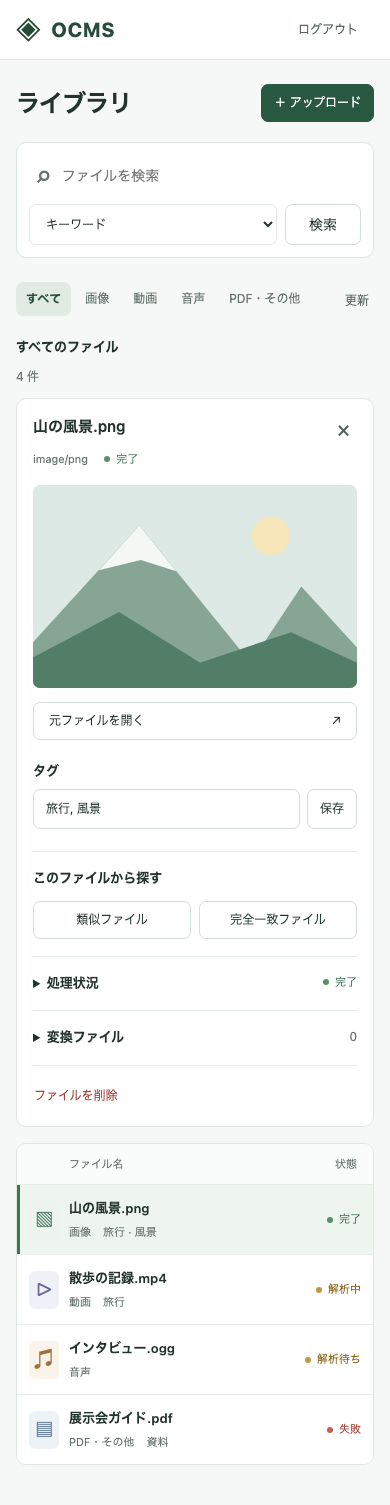
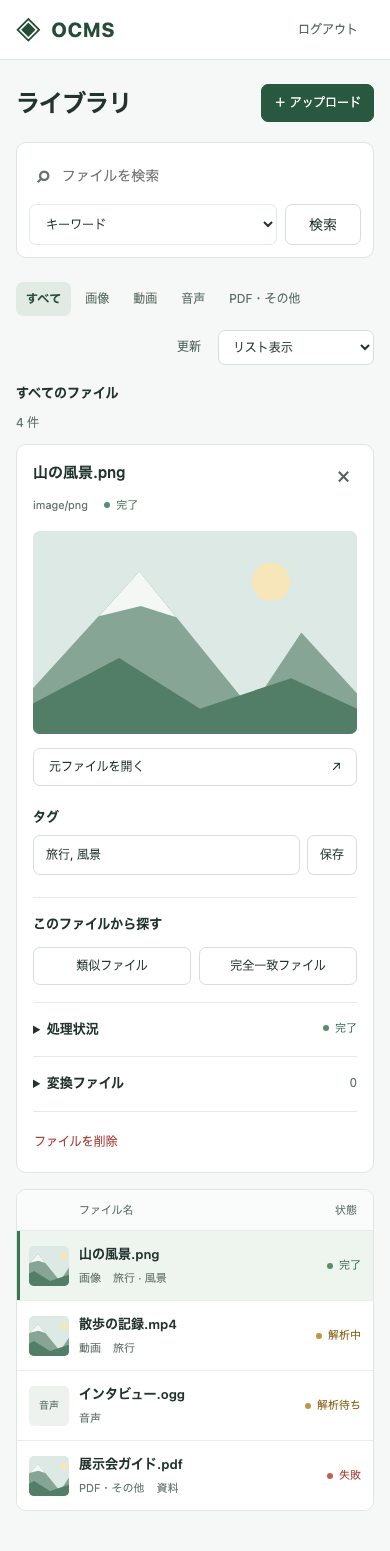
feat: add thumbnail list and grid library views

diff --git a/web/tests/library.spec.ts b/web/tests/library.spec.ts
@@ -180,3 +180,104 @@ test('narrow layout moves focus into details and returns it on close', async ({ 
   await page.getByRole('button', { name: '詳細を閉じる' }).click();
   await expect(file).toBeFocused();
 });
+
+test('view menu follows refresh and list rows use authenticated thumbnails', async ({ page }) => {
+  await expect(page.getByLabel('表示方法')).toHaveValue('list');
+  const refresh = (await page.getByRole('button', { name: '更新', exact: true }).boundingBox())!;
+  const menu = (await page.getByLabel('表示方法').boundingBox())!;
+  expect(menu.x).toBeGreaterThan(refresh.x + refresh.width);
+  await expect(page.getByLabel('表示方法').locator('option')).toHaveText(['リスト表示', 'グリッド表示', '詳細グリッド表示']);
+  const image = page.getByRole('button', { name: '山の風景.png', exact: true });
+  await expect(image.locator('.thumbnail img')).toHaveAttribute('src', '/api/v1/assets/image/preview');
+  await expect(image.locator('.thumbnail img')).toHaveJSProperty('naturalWidth', 640);
+  await expect(page.getByRole('button', { name: '散歩の記録.mp4', exact: true }).locator('.thumbnail img')).toHaveAttribute('src', '/api/v1/assets/video/preview');
+  await expect(page.getByRole('button', { name: '展示会ガイド.pdf', exact: true }).locator('.thumbnail img')).toHaveAttribute('src', '/api/v1/assets/pdf/preview');
+  await expect(page.getByRole('button', { name: 'インタビュー.ogg', exact: true }).locator('.thumbnail-placeholder')).toHaveText('音声');
+  await expect(page.locator('.file-icon')).toHaveCount(0);
+});
+
+test('square grids show only thumbnails or a contained thumbnail with title', async ({ page }) => {
+  // Portrait and landscape sources catch accidental image stretching.
+  await page.route('**/api/v1/assets/pdf/preview', route => route.fulfill({ contentType: 'image/svg+xml', body: '<svg xmlns="http://www.w3.org/2000/svg" width="300" height="600"><rect width="300" height="600" fill="#dbe3ed"/><rect x="30" y="50" width="240" height="10" fill="#6f849a"/></svg>' }));
+  await page.reload();
+  for (const view of ['grid', 'detailed-grid']) {
+    await page.setViewportSize({ width: 1440, height: 1000 });
+    await page.getByLabel('表示方法').selectOption(view);
+    const image = page.getByRole('button', { name: '山の風景.png', exact: true });
+    expect(await image.locator('.file-info').evaluate(el => el.classList.contains('visually-hidden'))).toBe(view === 'grid');
+    await expect(page.locator('.file .status, .file .file-meta, .list-header')).toHaveCount(0);
+    await expect(image.locator('.thumbnail img')).toHaveCSS('object-fit', view === 'grid' ? 'cover' : 'contain');
+    for (const width of [1440, 1024, 800, 390, 320]) {
+      await page.setViewportSize({ width, height: 1000 });
+      expect(await page.evaluate(() => document.documentElement.scrollWidth <= innerWidth)).toBe(true);
+      for (const card of await page.locator('.file').all()) {
+        const box = (await card.boundingBox())!;
+        expect(Math.abs(box.width - box.height)).toBeLessThan(1);
+      }
+    }
+    await page.setViewportSize({ width: 1440, height: 1000 });
+    await expect(page.getByRole('button', { name: '展示会ガイド.pdf', exact: true }).locator('.thumbnail img')).toHaveJSProperty('naturalHeight', 600);
+    if (process.env.UI_SCREENSHOTS) {
+      await page.screenshot({ path: `../docs/library-${view}.png`, fullPage: true });
+      await page.setViewportSize({ width: 390, height: 844 });
+      await page.screenshot({ path: `../docs/library-${view}-mobile.png`, fullPage: true });
+    }
+  }
+});
+
+test('switching view preserves selection, filtering and comparison context', async ({ page }) => {
+  await page.getByRole('button', { name: '画像', exact: true }).click();
+  await page.getByRole('button', { name: '山の風景.png', exact: true }).click();
+  for (const view of ['grid', 'detailed-grid', 'list']) {
+    await page.getByLabel('表示方法').selectOption(view);
+    await expect(page.locator('.file')).toHaveCount(1);
+    await expect(page.getByRole('button', { name: '山の風景.png', exact: true })).toHaveAttribute('aria-pressed', 'true');
+    await expect(page.getByRole('region', { name: 'ファイル詳細' })).toBeVisible();
+  }
+  await page.getByRole('button', { name: '類似ファイル', exact: true }).click();
+  await page.getByLabel('表示方法').selectOption('grid');
+  await page.getByRole('button', { name: '更新', exact: true }).click();
+  await expect(page.getByRole('heading', { name: '類似ファイル：山の風景.png' })).toBeVisible();
+  await page.getByRole('button', { name: '検索を解除' }).click();
+  await expect(page.getByLabel('表示方法')).toHaveValue('grid');
+  await expect(page.locator('.file')).toHaveCount(4);
+  await page.getByRole('button', { name: '展示会ガイド.pdf', exact: true }).click();
+  await expect(page.getByRole('region', { name: 'ファイル詳細' }).getByRole('heading', { level: 2 })).toHaveText('展示会ガイド.pdf');
+  for (const view of ['grid', 'detailed-grid']) {
+    await page.getByLabel('表示方法').selectOption(view);
+    for (const width of [1440, 1024, 800, 390, 320]) {
+      await page.setViewportSize({ width, height: 844 });
+      expect(await page.evaluate(() => document.documentElement.scrollWidth <= innerWidth)).toBe(true);
+      const box = (await page.locator('.file').first().boundingBox())!;
+      expect(Math.abs(box.width - box.height)).toBeLessThan(1);
+    }
+  }
+});
+
+test('missing thumbnails fall back and retry when processing status changes', async ({ page }) => {
+  let ready = false;
+  let previews = 0;
+  await page.route('**/api/v1/assets', route => route.fulfill({ json: { assets: [{ ...fixtures[0], status: ready ? 'ready' : 'processing' }] } }));
+  await page.route('**/api/v1/assets/image/preview', route => {
+    previews++;
+    return route.fulfill(ready ? { contentType: 'image/svg+xml', body: preview } : { status: 404 });
+  });
+  await page.reload();
+  await expect(page.locator('.thumbnail-placeholder')).toHaveText('準備中');
+  await page.getByLabel('表示方法').selectOption('grid');
+  await expect(page.locator('.thumbnail-placeholder')).toHaveText('準備中');
+  ready = true;
+  await page.getByRole('button', { name: '更新', exact: true }).click();
+  await expect(page.locator('.thumbnail img')).toHaveJSProperty('naturalWidth', 640);
+  expect(previews).toBe(2);
+});
+
+test('PDF search thumbnails use the matched page in every view', async ({ page }) => {
+  await page.getByLabel('検索クエリ').fill('pdf');
+  await page.getByRole('button', { name: '検索', exact: true }).click();
+  await expect(page.locator('.file')).toHaveCount(1);
+  for (const view of ['list', 'grid', 'detailed-grid']) {
+    await page.getByLabel('表示方法').selectOption(view);
+    await expect(page.locator('.file .thumbnail img')).toHaveAttribute('src', '/api/v1/assets/pdf/preview?page=2');
+  }
+});

diff --git a/web/src/main.tsx b/web/src/main.tsx
@@ -11,6 +11,7 @@ type Job = { job_id: string; job_type: string; status: string; attempts: number;
 type Me = { principal_id: string; csrf_token: string };
 type Mode = 'keyword' | 'semantic' | 'hybrid' | 'perceptual' | 'exact_duplicate';
 type SearchContext = { mode: Mode; query: string; source?: Asset };
+type View = 'list' | 'grid' | 'detailed-grid';
 type Kind = 'all' | 'image' | 'video' | 'audio' | 'document';
 const statuses: Record<string, string> = {
   pending: 'アップロード待ち', uploading: 'アップロード中', stored: '解析待ち', processing: '解析中', ready: '完了', failed: '失敗',
@@ -38,6 +39,16 @@ function renditionName(profile: string) {
   const page = profile.match(/^pdf\.page-(\d+)-v1$/);
   return page ? `${page[1]} ページ · PNG` : profile;
 }
+function Thumbnail({ asset }: { asset: Asset }) {
+  const [failed, setFailed] = useState(false);
+  const kind = kindOf(asset);
+  const hasPreview = kind === 'image' || kind === 'video' || asset.mime_type === 'application/pdf';
+  const url = `/api/v1/assets/${asset.asset_id}/preview${asset.page_number !== undefined ? `?page=${asset.page_number}` : ''}`;
+  return <span className="thumbnail" aria-hidden="true">
+    {hasPreview && !failed ? <img src={url} alt="" loading="lazy" onError={() => setFailed(true)} />
+      : <span className="thumbnail-placeholder">{kind === 'audio' ? '音声' : ['pending', 'stored', 'processing'].includes(asset.status) ? '準備中' : 'プレビューなし'}</span>}
+  </span>;
+}
 function Status({ value }: { value: string }) {
   return <span className={`status status-${value}`}><span aria-hidden="true" />{statuses[value] ?? value}</span>;
 }
@@ -54,6 +65,7 @@ function App() {
   const [mode, setMode] = useState<Mode>('keyword');
   const [context, setContext] = useState<SearchContext>(allFiles);
   const [kind, setKind] = useState<Kind>('all');
+  const [view, setView] = useState<View>('list');
   const [error, setError] = useState('');
   const [notice, setNotice] = useState('');
   const [searching, setSearching] = useState(false);
@@ -193,7 +205,12 @@ function App() {
           <div className="filters" role="group" aria-label="ファイルの種類">{kinds.map(item =>
             <button key={item.id} aria-pressed={kind === item.id} onClick={() => setKind(item.id)}>{item.label}</button>
           )}</div>
-          <button className="quiet" disabled={searching} onClick={() => run(() => refresh())}>更新</button>
+          <div className="view-controls">
+            <button className="quiet" disabled={searching} onClick={() => run(() => refresh())}>更新</button>
+            <select aria-label="表示方法" value={view} onChange={e => setView(e.target.value as View)}>
+              <option value="list">リスト表示</option><option value="grid">グリッド表示</option><option value="detailed-grid">詳細グリッド表示</option>
+            </select>
+          </div>
         </div>
         <div className="result-heading" aria-live="polite">
           <h2>{context.source ? `${context.mode === 'perceptual' ? '類似ファイル' : '完全一致ファイル'}：${context.source.filename}` : context.query ? `「${context.query}」の検索結果` : kind === 'all' ? 'すべてのファイル' : kinds.find(k => k.id === kind)?.label}</h2>
@@ -201,20 +218,25 @@ function App() {
           {isResult && <button className="text-button" onClick={reset}>検索を解除</button>}
         </div>
         <div className={`library ${selected ? 'has-selection' : ''}`}>
-          <section ref={fileList} className="files" aria-label="ファイル一覧" aria-busy={searching}>
+          <section ref={fileList} className={`files files-${view}`} aria-label="ファイル一覧" aria-busy={searching}>
             {visibleAssets.length === 0 ? <div className="empty">
               <span className="empty-icon" aria-hidden="true">▤</span>
               <h3>{searching ? '読み込み中…' : isResult ? '検索結果がありません' : kind !== 'all' ? 'この種類のファイルはありません' : 'ファイルはまだありません'}</h3>
               {!searching && (isResult || kind !== 'all' ? <button onClick={reset}>すべてのファイル</button> : <button onClick={() => uploadInput.current?.click()} disabled={progress !== null}>ファイルをアップロード</button>)}
             </div> : <>
-              <div className="list-header" aria-hidden="true"><span>ファイル名</span><span>状態</span></div>
-              {visibleAssets.map(a => <button className={`file ${selected?.asset_id === a.asset_id ? 'active' : ''}`} aria-pressed={selected?.asset_id === a.asset_id} key={a.asset_id} disabled={searching} onClick={() => { setError(''); setSelected(a); }}>
-                <span className={`file-icon kind-${kindOf(a)}`} aria-hidden="true">{kindOf(a) === 'image' ? '▧' : kindOf(a) === 'video' ? '▷' : kindOf(a) === 'audio' ? '♫' : '▤'}</span>
-                <span className="file-info"><b>{a.filename}</b><span className="file-meta">{kinds.find(k => k.id === kindOf(a))?.label}{a.tags.length > 0 && <span className="file-tags">{a.tags.join(' · ')}</span>}</span>
-                  {a.snippet && <span className="snippet">{a.snippet}</span>}
-                  {locationOf(a) && <span className="match-location">{locationOf(a)}</span>}
-                </span><Status value={a.status} />
-              </button>)}
+              {view === 'list' && <div className="list-header" aria-hidden="true"><span>ファイル名</span><span>状態</span></div>}
+              <div className={`file-items view-${view}`}>
+                {visibleAssets.map(a => <button className={`file ${selected?.asset_id === a.asset_id ? 'active' : ''}`} aria-label={a.filename} title={a.filename} aria-pressed={selected?.asset_id === a.asset_id} key={a.asset_id} disabled={searching} onClick={() => { setError(''); setSelected(a); }}>
+                  <Thumbnail key={`${a.asset_id}:${a.status}:${a.page_number ?? 1}`} asset={a} />
+                  <span className={`file-info${view === 'grid' ? ' visually-hidden' : ''}`}><b>{a.filename}</b>
+                    {view === 'list' && <>
+                      <span className="file-meta">{kinds.find(k => k.id === kindOf(a))?.label}{a.tags.length > 0 && <span className="file-tags">{a.tags.join(' · ')}</span>}</span>
+                      {a.snippet && <span className="snippet">{a.snippet}</span>}
+                      {locationOf(a) && <span className="match-location">{locationOf(a)}</span>}
+                    </>}
+                  </span>{view === 'list' && <Status value={a.status} />}
+                </button>)}
+              </div>
             </>}
           </section>
           {selected && <section className="details" aria-label="ファイル詳細" key={selected.asset_id}>

diff --git a/web/src/style.css b/web/src/style.css
@@ -62,15 +62,27 @@ main { max-width: 1560px; margin: 0 auto; padding: 36px 40px 64px; }
 .library { display: grid; grid-template-columns: minmax(0, 1fr); gap: 24px; align-items: start; }
 .library.has-selection { grid-template-columns: minmax(0, 1fr) 360px; }
 .files { min-width: 0; border: 1px solid #dfe6e1; border-radius: 10px; background: white; overflow: hidden; }
-.list-header { display: flex; justify-content: space-between; padding: 12px 22px 12px 76px; border-bottom: 1px solid #e5ebe7; font-size: 11px; color: #65746c; background: #fafcfb; }
+.list-header { display: flex; justify-content: space-between; padding: 12px 22px 12px 84px; border-bottom: 1px solid #e5ebe7; font-size: 11px; color: #65746c; background: #fafcfb; }
 .file { display: flex; align-items: center; text-align: left; gap: 16px; width: 100%; padding: 20px; border: 0; border-bottom: 1px solid #e9eeeb; border-radius: 0; background: white; white-space: normal; }
 .file:last-child { border-bottom: 0; }
 .file.active { background: #eef5ef; box-shadow: inset 3px 0 #397653; }
 .file:focus-visible { outline-offset: -4px; }
-.file-icon { flex-shrink: 0; width: 38px; height: 44px; display: grid; place-items: center; border-radius: 6px; font-size: 24px; color: #4b7c66; background: #edf4ee; }
-.kind-video { color: #68699c; background: #f0f0f8; }
-.kind-audio { color: #a1703c; background: #faf3e9; }
-.kind-document { color: #5e7991; background: #edf2f7; }
+.thumbnail { flex-shrink: 0; display: flex; align-items: center; justify-content: center; width: 48px; height: 48px; border-radius: 5px; overflow: hidden; background: #edf2ef; }
+.thumbnail img { display: block; width: 100%; height: 100%; object-fit: cover; }
+.thumbnail-placeholder { padding: 6px; color: #65746c; font-size: 10px; line-height: 1.5; text-align: center; overflow-wrap: anywhere; }
+.view-controls { display: flex; align-items: center; gap: 8px; flex-shrink: 0; }
+.view-controls select { font-size: 12px; padding: 8px 28px 8px 10px; }
+.files-grid, .files-detailed-grid { border: 0; background: transparent; overflow: visible; }
+.view-grid, .view-detailed-grid { display: grid; grid-template-columns: repeat(auto-fill, minmax(min(160px, 100%), 1fr)); gap: 14px; }
+.view-grid .file, .view-detailed-grid .file { aspect-ratio: 1; min-width: 0; overflow: hidden; border: 1px solid #dfe6e1; border-radius: 8px; }
+.view-grid .file { display: block; padding: 0; position: relative; }
+.view-grid .thumbnail { width: 100%; height: 100%; border-radius: 0; }
+.view-grid .file.active, .view-detailed-grid .file.active { border-color: #397653; box-shadow: 0 0 0 2px #397653; }
+.view-detailed-grid .file { display: flex; flex-direction: column; align-items: stretch; padding: 10px; gap: 10px; }
+.view-detailed-grid .thumbnail { flex: 1; min-height: 0; width: 100%; height: auto; }
+.view-detailed-grid .thumbnail img { object-fit: contain; }
+.view-detailed-grid .file-info { flex: 0 0 39px; }
+.view-detailed-grid .file b { display: -webkit-box; -webkit-line-clamp: 2; -webkit-box-orient: vertical; overflow: hidden; font-size: 12px; line-height: 19px; }
 .file-info { flex: 1; min-width: 0; }
 .file b { display: block; font-size: 13px; font-weight: 600; overflow-wrap: anywhere; }
 .file-meta { display: flex; gap: 12px; margin-top: 5px; color: #65746c; font-size: 11px; }
@@ -147,15 +159,17 @@ progress { flex: 1; max-width: 300px; height: 6px; accent-color: #397653; }
   .search { flex-wrap: wrap; gap: 8px; }
   .search-field { flex-basis: 100%; }
   .search select { flex: 1; max-width: none; }
-  .library-toolbar { align-items: flex-start; gap: 6px; }
+  .library-toolbar { flex-wrap: wrap; gap: 12px; }
+  .view-controls { margin-left: auto; }
+  .view-grid, .view-detailed-grid { grid-template-columns: repeat(2, minmax(0, 1fr)); gap: 10px; }
   .filters { gap: 4px; }
   .filters button { padding: 7px 9px; font-size: 12px; }
-  .library-toolbar > button { padding-inline: 4px; font-size: 12px; }
+  .view-controls button { padding-inline: 8px; font-size: 12px; }
   .file { gap: 10px; padding: 14px 12px; }
-  .file-icon { width: 30px; height: 38px; font-size: 21px; }
+  .view-list .thumbnail { width: 40px; height: 40px; }
   .file > .status { max-width: 92px; white-space: normal; }
   .file > .status > span { flex-shrink: 0; }
-  .list-header { padding-left: 52px; padding-right: 16px; }
+  .list-header { padding-left: 62px; padding-right: 16px; }
   .result-heading h2 { width: 100%; font-size: 13px; }
   .details { padding: 16px; }
 }

diff --git a/README.md b/README.md
@@ -14,7 +14,7 @@ docker compose build
 docker compose up -d --wait
 ```
 
-[http://localhost:8080](http://localhost:8080) を開き、`alice` または `bob` でログインします。これはローカル開発専用の認証です。アップロード、一覧、タグ編集、全文・意味・ハイブリッド検索、完全一致・知覚類似検索、派生メディアの表示、Job状態の確認、論理削除を利用できます。一覧は画像・動画・音声・PDFなどの種類で絞り込めます。完全一致・類似検索は、ファイル詳細の「このファイルから探す」から実行します。処理状況と変換ファイルは詳細内の折りたたみで確認できます。検索結果には該当ページ・時刻を表示し、動画・音声はその時刻から再生します。PDFはページプレビューと元ファイルへのリンクを提供します。
+[http://localhost:8080](http://localhost:8080) を開き、`alice` または `bob` でログインします。これはローカル開発専用の認証です。アップロード、一覧、タグ編集、全文・意味・ハイブリッド検索、完全一致・知覚類似検索、派生メディアの表示、Job状態の確認、論理削除を利用できます。一覧は画像・動画・音声・PDFなどの種類で絞り込めます。更新ボタンの右隣にある「表示方法」で、サムネイル付きリスト、サムネイルのみの正方形グリッド、タイトル付きの詳細グリッドを切り替えられます。詳細グリッドは画像全体が収まるように縦横比を保って表示します。完全一致・類似検索は、ファイル詳細の「このファイルから探す」から実行します。処理状況と変換ファイルは詳細内の折りたたみで確認できます。検索結果には該当ページ・時刻を表示し、動画・音声はその時刻から再生します。PDFはページプレビューと元ファイルへのリンクを提供します。
 
 初期化スクリプトは `.env` と `secrets/crypto.yaml` にランダムな開発用認証情報を生成します。既存ファイルは上書きしません。両方ともGitとDockerのビルドコンテキストから除外しています。鍵ファイルを削除すると保存済みデータを復号できなくなるため、DB・S3のデータとともに保持してください。
 
@@ -77,7 +77,7 @@ npx playwright install chromium
 npm run test:ui
 ```
 
-テストがローカルのプレビューサーバー（`127.0.0.1:4173`）を起動し、生成データのAPI応答で検索・比較・タグ編集・アップロード・削除確認・認証方式の表示・レスポンシブ表示を検証します。DBやS3には接続しません。実サービスとの接続やRangeは上記の結合試験で、動画の再生・シークは実サービスに接続したブラウザで別途確認します。`UI_SCREENSHOTS=1 npm run test:ui` で生成データのPC・モバイル画面を `docs/library-ia.png` と `docs/library-ia-mobile.png` に保存できます。
+テストがローカルのプレビューサーバー（`127.0.0.1:4173`）を起動し、生成データのAPI応答で検索・比較・タグ編集・アップロード・削除確認・認証方式の表示・レスポンシブ表示を検証します。DBやS3には接続しません。実サービスとの接続やRangeは上記の結合試験で、動画の再生・シークは実サービスに接続したブラウザで別途確認します。`UI_SCREENSHOTS=1 npm run test:ui` で生成データのPC・モバイル画面を `docs/library-ia.png` と `docs/library-ia-mobile.png` に保存できます。グリッド2種類も `docs/library-grid.png`、`docs/library-detailed-grid.png` と、それぞれの `-mobile.png` に保存します。
 
 ## Hydra OIDC・OTLPの実接続検証
 
